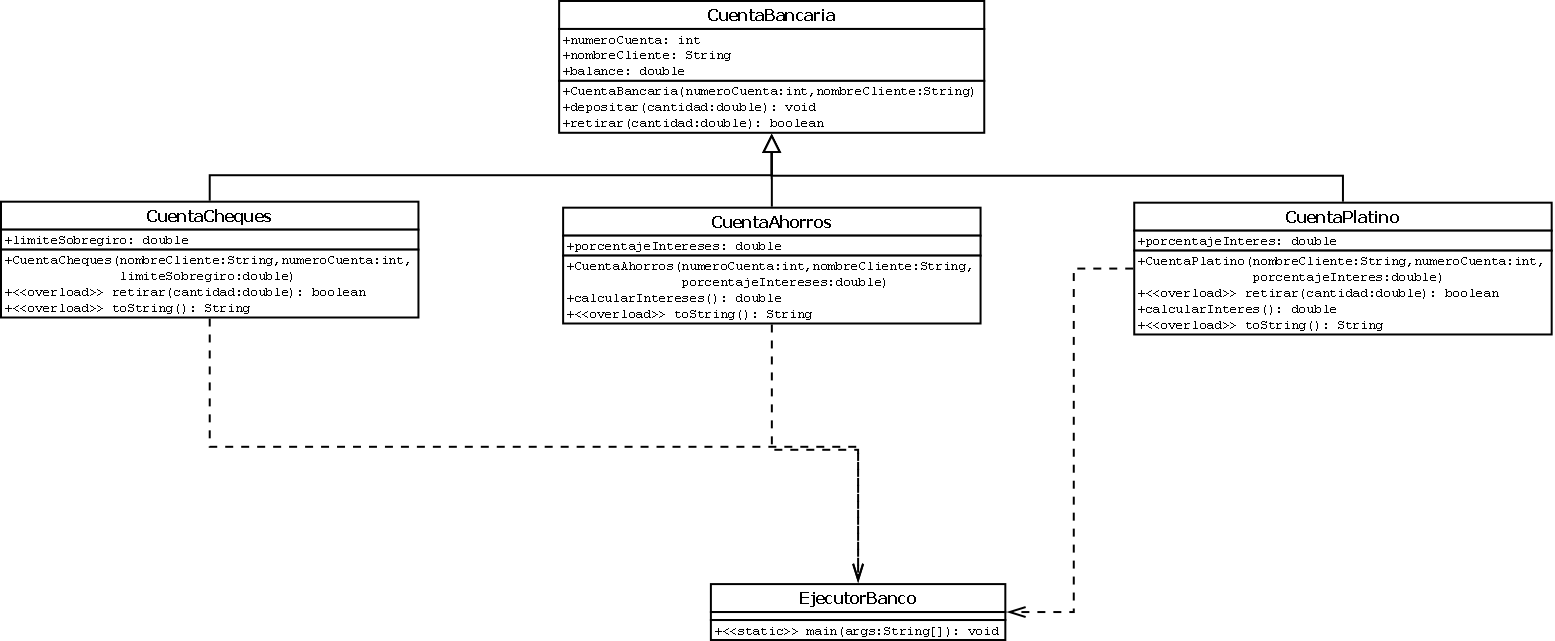
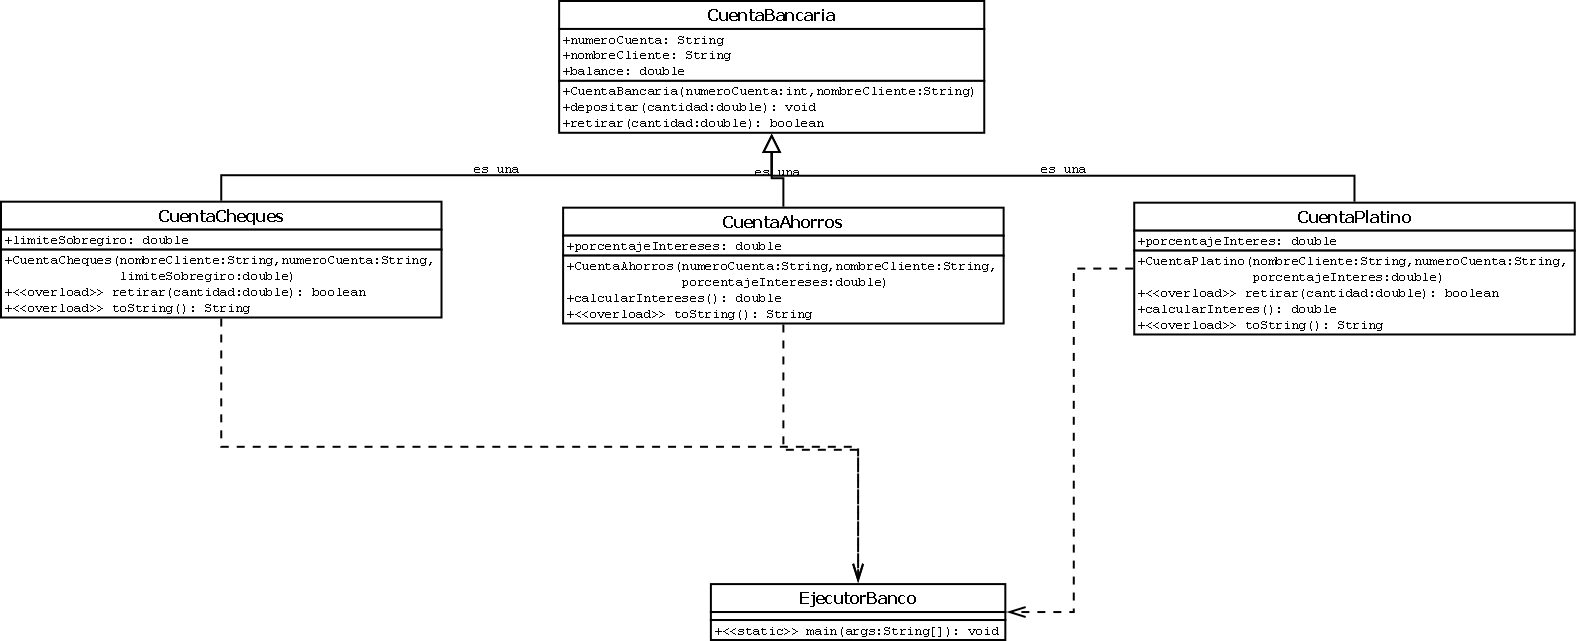
taller 7

diff --git a/Solucion_Codigo/Proyect_Taller07/src/Problema_6_EjecutorBanco.java b/Solucion_Codigo/Proyect_Taller07/src/Problema_6_EjecutorBanco.java
@@ -13,6 +13,13 @@ El banco ofrece a sus clientes dos tipos de cuentas, una de CHEQUES y una de AHO
  *
  * @version 1.0
  */
+/**
+ * Problema 06: Sistema Un Banco con cuentas de cheques, ahorros y platino.
+ *
+ * @author Joan Salinas
+ *
+ * @version 1.0
+ */
 class CuentaBancaria{
     public String numeroCuenta;
     public String nombreCliente;
@@ -53,8 +60,7 @@ class CuentaCheques extends CuentaBancaria{
         this.limiteSobregiro = limiteSobregiro;
     }
 
-    @Override
-    public boolean retirar(double cantidad){
+    public boolean retirarConSobregiro(double cantidad){
         if((this.balance - cantidad) >= (this.limiteSobregiro * -1)){
             this.balance = this.balance - cantidad;
             return true;
@@ -76,7 +82,7 @@ class CuentaAhorros extends CuentaBancaria{
         this.porcentajeInteres = porcentajeInteres;
     }
 
-    public double calcularInteres(){
+    public double calcularInteresAhorros(){
         double interes = this.balance * (this.porcentajeInteres / 100);
         this.balance = this.balance + interes;
         return interes;
@@ -96,13 +102,12 @@ class CuentaPlatino extends CuentaBancaria{
         this.porcentajeInteres = 10;
     }
 
-    @Override
-    public boolean retirar(double cantidad){
+    public boolean retirarPlatino(double cantidad){
         this.balance = this.balance - cantidad;
         return true;
     }
 
-    public double calcularInteres(){
+    public double calcularInteresPlatino(){
         double interes = this.balance * (this.porcentajeInteres / 100);
         this.balance = this.balance + interes;
         return interes;
@@ -118,26 +123,27 @@ public class Problema_6_EjecutorBanco {
     public static void main(String[] args) {
         CuentaCheques cuenta1 = new CuentaCheques(200, "001-100", "Juan Perez");
         cuenta1.depositar(100);
-        cuenta1.retirar(250);
-        System.out.println(cuenta1);
+        cuenta1.retirarConSobregiro(250);
+        System.out.println("Estado de cuenta: " + cuenta1);
 
         CuentaAhorros cuenta2 = new CuentaAhorros(5, "001-200", "Maria Loja");
         cuenta2.depositar(800);
         cuenta2.retirar(100);
-        cuenta2.calcularInteres();
-        System.out.println(cuenta2);
+        cuenta2.calcularInteresAhorros();
+        System.out.println("Estado de cuenta: " + cuenta2);
 
         CuentaPlatino cuenta3 = new CuentaPlatino("001-300", "Carlos Mora");
         cuenta3.depositar(1000);
-        cuenta3.retirar(1200);
-        cuenta3.calcularInteres();
-        System.out.println(cuenta3);
+        cuenta3.retirarPlatino(1200);
+        cuenta3.calcularInteresPlatino();
+        System.out.println("Estado de cuenta: " + cuenta3);
     }
 }
 /**
  * run:
-CuentaCheques{limiteSobregiro=200.0}CuentaBancaria{numeroCuenta=001-100, nombreCliente=Juan Perez, balance=-150.0}
-CuentaAhorros{porcentajeInteres=5.0}CuentaBancaria{numeroCuenta=001-200, nombreCliente=Maria Loja, balance=735.0}
-CuentaPlatino{porcentajeInteres=10.0}CuentaBancaria{numeroCuenta=001-300, nombreCliente=Carlos Mora, balance=-220.0}
+Estado de cuenta: CuentaCheques{limiteSobregiro=200.0}CuentaBancaria{numeroCuenta=001-100, nombreCliente=Juan Perez, balance=-150.0}
+Estado de cuenta: CuentaAhorros{porcentajeInteres=5.0}CuentaBancaria{numeroCuenta=001-200, nombreCliente=Maria Loja, balance=735.0}
+Estado de cuenta: CuentaPlatino{porcentajeInteres=10.0}CuentaBancaria{numeroCuenta=001-300, nombreCliente=Carlos Mora, balance=-220.0}
 BUILD SUCCESSFUL (total time: 0 seconds)
+
  */